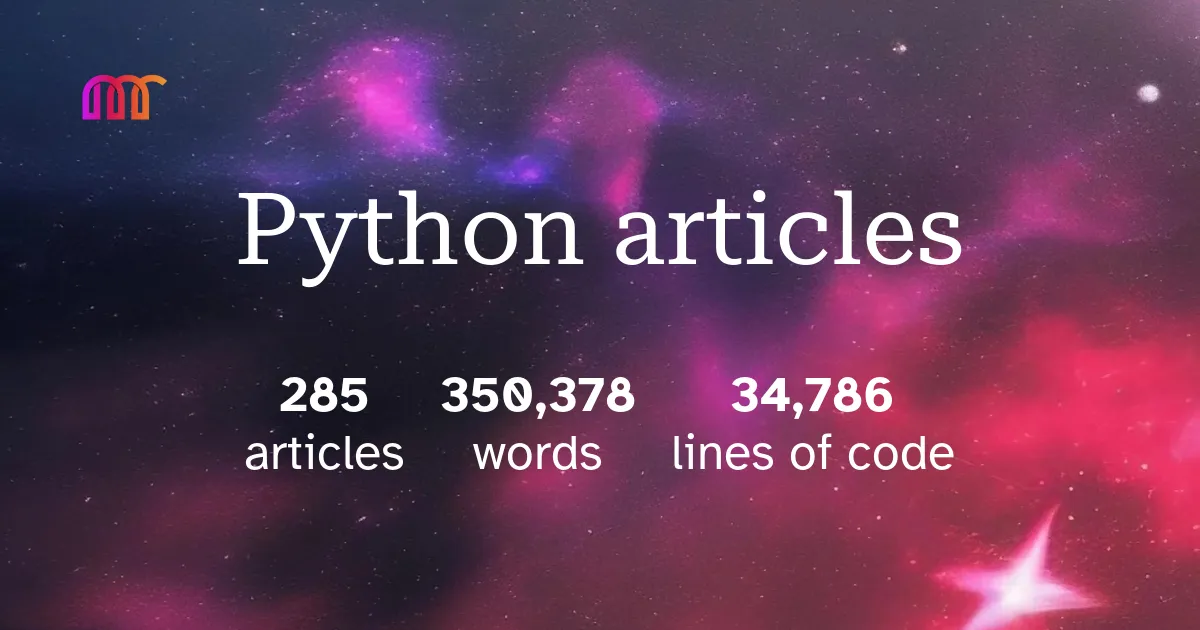
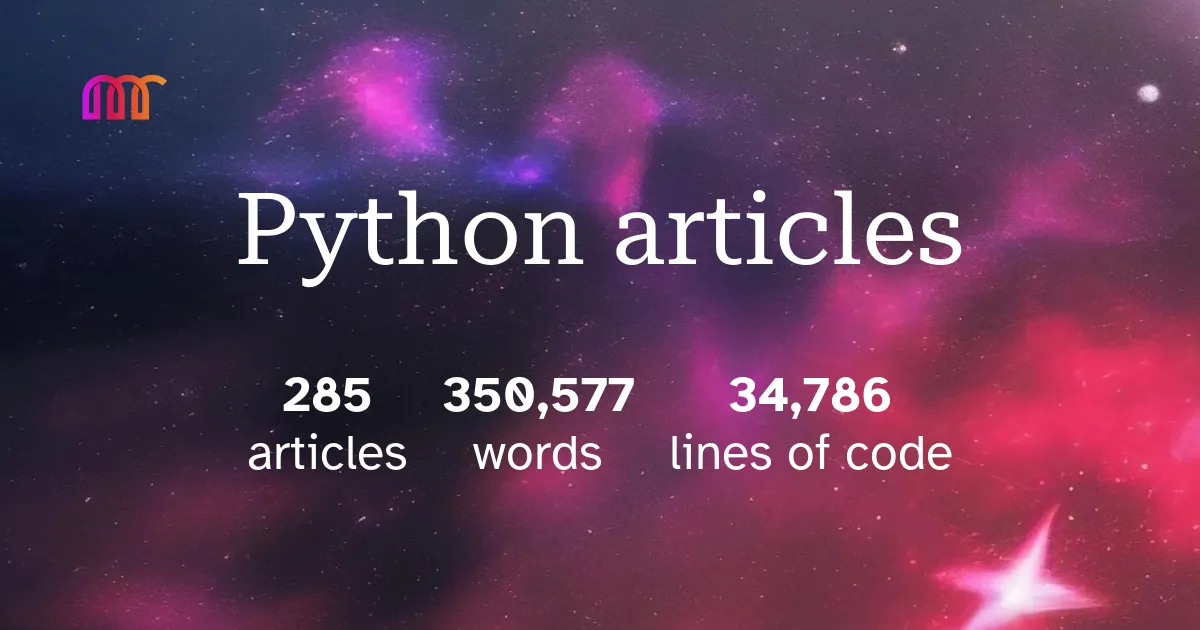
Add Python quiz.

diff --git a/pages/02.blog/who-wants-to-be-a-millionaire/item.md b/pages/02.blog/who-wants-to-be-a-millionaire/item.md
@@ -2,6 +2,104 @@ Play this short Python quiz to test your Python knowledge!
 
 ===
 
+<script>
+document.querySelectorAll('.quiz-question').forEach(q => {
+  const correct = q.dataset.correct;
+  const choices = q.querySelectorAll('li');
+  const feedback = q.querySelector('.feedback');
+
+  choices.forEach(choice => {
+    choice.addEventListener('click', () => {
+      if (q.classList.contains('answered')) return;
+
+      const selected = choice.dataset.option;
+
+      q.classList.add('answered');
+
+      if (selected === correct) {
+        choice.classList.add('correct');
+        feedback.textContent = '✅ Correct!';
+      } else {
+        choice.classList.add('wrong');
+        feedback.textContent = '❌ Wrong. Correct answer: ' +
+          q.querySelector(`li[data-option="${correct}"]`).textContent;
+        q.querySelector(`li[data-option="${correct}"]`).classList.add('correct');
+      }
+    });
+  });
+});
+</script>
+
+<style>
+.quiz-question {
+  --bg: #f9f9f9;
+  --fg: #222;
+  --accent: var(--bl);
+  --correct: var(--gr);
+  --wrong: var(--re);
+
+  background: var(--bg);
+  color: var(--fg);
+  border: 1px solid #ddd;
+  border-radius: 8px;
+  padding: 1rem;
+  margin: 1rem 0;
+  font-family: system-ui, sans-serif;
+  box-shadow: 0 2px 6px rgba(0,0,0,0.05);
+}
+
+.quiz-question .question-text {
+  font-size: 1.1rem;
+  margin-bottom: 0.5rem;
+}
+
+.quiz-question ul.choices {
+  list-style: none;
+  padding: 0;
+  margin: 0;
+}
+
+.quiz-question ul.choices li {
+  background: white;
+  border: 1px solid #ccc;
+  border-radius: 6px;
+  padding: 0.6rem 1rem;
+  margin-bottom: 0.5rem;
+  cursor: pointer;
+  transition: background 0.3s, border 0.3s;
+}
+
+.quiz-question ul.choices li:hover {
+  background: #eef7ff;
+  border-color: var(--accent);
+}
+
+.quiz-question ul.choices li.correct {
+  background: var(--correct);
+  color: white;
+  border-color: var(--correct);
+}
+
+.quiz-question ul.choices li.wrong {
+  background: var(--wrong);
+  color: white;
+  border-color: var(--wrong);
+}
+
+.quiz-question .feedback {
+  margin-top: 0.75rem;
+  font-weight: bold;
+  opacity: 0;
+  transform: translateY(-10px);
+  transition: opacity 0.4s ease, transform 0.4s ease;
+}
+
+.quiz-question.answered .feedback {
+  opacity: 1;
+  transform: translateY(0);
+}
+</style>
+
 
 # Who wants to be a millionaire?
 

diff --git a/pages/02.blog/00.tags/python/blog.md b/pages/02.blog/00.tags/python/blog.md
@@ -29,7 +29,7 @@ title: "Python blog articles"
     <thead>
         <tr>
             <th style="text-align: center;">285</th>
-            <th style="text-align: center;">350,378</th>
+            <th style="text-align: center;">350,577</th>
             <th style="text-align: center;">34,786</th>
         </tr>
     </thead>

diff --git a/pages/02.blog/00.tags/_stats/features.md b/pages/02.blog/00.tags/_stats/features.md
@@ -8,7 +8,7 @@ class: offset-box
     <thead>
         <tr>
             <th style="text-align: center;">406</th>
-            <th style="text-align: center;">440,733</th>
+            <th style="text-align: center;">440,932</th>
             <th style="text-align: center;">36,972</th>
         </tr>
     </thead>

diff --git a/pages/02.blog/blog.md b/pages/02.blog/blog.md
@@ -4,7 +4,7 @@
     <thead>
         <tr>
             <th style="text-align: center;">406</th>
-            <th style="text-align: center;">440,733</th>
+            <th style="text-align: center;">440,932</th>
             <th style="text-align: center;">36,972</th>
         </tr>
     </thead>
